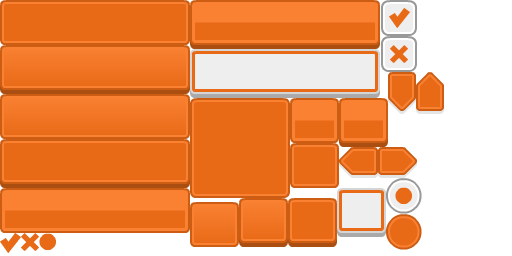
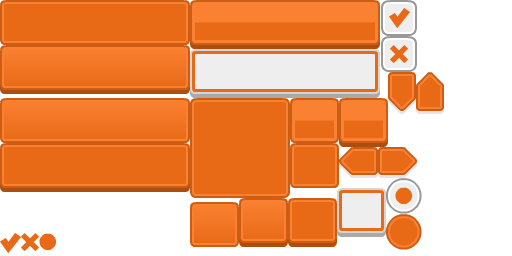
reescalated buttons

Changed region(s): [[0.0, 0.6875, 0.375, 0.9375], [0.0, 0.5312, 0.375, 0.5938], [0.0, 0.3438, 0.375, 0.4062]]

diff --git a/The Cliffborn Islands/Motor2D/j1SceneMenu.cpp b/The Cliffborn Islands/Motor2D/j1SceneMenu.cpp
@@ -63,13 +63,13 @@ bool j1SceneMenu::Start()
 		player_tex = App->tex->Load("textures/character/character.png");
 		harpy_tex = App->tex->Load("textures/enemies/harpy/harpy.png");
 
-		SDL_Rect idle = {288, 198, 49, 49};
-		SDL_Rect hovered = { 239, 198, 49, 49 };
-		SDL_Rect clicked = { 190, 198, 49, 49 };
+		SDL_Rect idle = {0, 143, 190, 49};
+		SDL_Rect hovered = { 0, 45, 190, 49 };
+		SDL_Rect clicked = { 0, 94, 190, 49 };
 
-		App->gui->CreateButton(BUTTON, 107, 90, idle, hovered, clicked, gui_tex, PLAY_GAME);
-		App->gui->CreateButton(BUTTON, 107, 140, idle, hovered, clicked, gui_tex, CLOSE_GAME);
-		App->gui->CreateButton(BUTTON, 200, 140, idle, hovered, clicked, gui_tex, CREDITS);
+		App->gui->CreateButton(BUTTON, 80, 110, idle, hovered, clicked, gui_tex, PLAY_GAME);
+		App->gui->CreateButton(BUTTON, 80, 135, idle, hovered, clicked, gui_tex, CLOSE_GAME);
+		App->gui->CreateButton(BUTTON, 80, 160, idle, hovered, clicked, gui_tex, CREDITS);
 	}
 
 	return true;
@@ -130,7 +130,7 @@ bool j1SceneMenu::Update(float dt)
 
 	// Blitting the buttons
 	for (p2List_item<j1Button*>* item = App->gui->buttons.start; item != nullptr; item = item->next) {
-		item->data->Draw();
+		item->data->Draw(0.5f);
 	}
 
 	return true;

diff --git a/The Cliffborn Islands/Motor2D/j1Render.h b/The Cliffborn Islands/Motor2D/j1Render.h
@@ -38,7 +38,7 @@ public:
 	iPoint ScreenToWorld(int x, int y) const;
 
 	// Draw & Blit
-	bool Blit(SDL_Texture* texture, int x, int y, const SDL_Rect* section = NULL, SDL_RendererFlip flip = SDL_FLIP_NONE, float speed = 1.0f, double angle = 0, int pivot_x = INT_MAX, int pivot_y = INT_MAX) const;
+	bool Blit(SDL_Texture* texture, int x, int y, const SDL_Rect* section = NULL, SDL_RendererFlip flip = SDL_FLIP_NONE, float speed = 1.0f, float blitScale = 1.0f,  double angle = 0, int pivot_x = INT_MAX, int pivot_y = INT_MAX) const;
 	bool DrawQuad(const SDL_Rect& rect, Uint8 r, Uint8 g, Uint8 b, Uint8 a = 255, bool filled = true, bool use_camera = true) const;
 	bool DrawLine(int x1, int y1, int x2, int y2, Uint8 r, Uint8 g, Uint8 b, Uint8 a = 255, bool use_camera = true) const;
 	bool DrawCircle(int x1, int y1, int redius, Uint8 r, Uint8 g, Uint8 b, Uint8 a = 255, bool use_camera = true) const;

diff --git a/The Cliffborn Islands/Motor2D/j1Render.cpp b/The Cliffborn Islands/Motor2D/j1Render.cpp
@@ -147,7 +147,7 @@ iPoint j1Render::ScreenToWorld(int x, int y) const
 }
 
 // Blit to screen
-bool j1Render::Blit(SDL_Texture* texture, int x, int y, const SDL_Rect* section, SDL_RendererFlip flip, float speed, double angle, int pivot_x, int pivot_y) const
+bool j1Render::Blit(SDL_Texture* texture, int x, int y, const SDL_Rect* section, SDL_RendererFlip flip, float speed, float blitScale, double angle, int pivot_x, int pivot_y) const
 {
 	bool ret = true;
 	uint scale = App->win->GetScale();
@@ -166,8 +166,8 @@ bool j1Render::Blit(SDL_Texture* texture, int x, int y, const SDL_Rect* section,
 		SDL_QueryTexture(texture, NULL, NULL, &rect.w, &rect.h);
 	}
 
-	rect.w *= scale;
-	rect.h *= scale;
+	rect.w *= scale * blitScale;
+	rect.h *= scale * blitScale;
 
 	SDL_Point* p = NULL;
 	SDL_Point pivot;

diff --git a/The Cliffborn Islands/Motor2D/j1UserInterfaceElement.cpp b/The Cliffborn Islands/Motor2D/j1UserInterfaceElement.cpp
@@ -5,10 +5,10 @@
 j1UserInterfaceElement::j1UserInterfaceElement(UIELEMENT_TYPES type, int x, int y, SDL_Rect section, SDL_Texture* text) : 
 	type(type), position(x, y), section(section), sprites(text) {}
 
-void j1UserInterfaceElement::Draw(bool flip, int x, int y)
+void j1UserInterfaceElement::Draw(float scale, bool flip, int x, int y)
 {
 	if (flip == false)
-		App->render->Blit(sprites, (int)position.x + x, (int)position.y + y, &section, SDL_FLIP_NONE);
+		App->render->Blit(sprites, (int)position.x + x, (int)position.y + y, &section, SDL_FLIP_NONE, 1.0f, scale);
 	else
-		App->render->Blit(sprites, (int)position.x + x, (int)position.y + y, &section, SDL_FLIP_HORIZONTAL);
+		App->render->Blit(sprites, (int)position.x + x, (int)position.y + y, &section, SDL_FLIP_HORIZONTAL, 1.0f, scale);
 }

diff --git a/The Cliffborn Islands/Motor2D/j1Gui.cpp b/The Cliffborn Islands/Motor2D/j1Gui.cpp
@@ -89,8 +89,8 @@ void j1Gui::UpdateButtonsState() {
 	int x, y; App->input->GetMousePosition(x, y);
 
 	for (p2List_item<j1Button*>* button = buttons.start; button != nullptr; button = button->next) {
-		if (x <= button->data->position.x + button->data->section.w && x >= button->data->position.x
-			&& y <= button->data->position.y + button->data->section.h && y >= button->data->position.y) {
+		if (x <= button->data->position.x + button->data->section.w * 0.5f && x >= button->data->position.x
+			&& y <= button->data->position.y + button->data->section.h * 0.5f && y >= button->data->position.y) {
 			button->data->state = STATE::HOVERED;
 
 			if (App->input->GetMouseButtonDown(SDL_BUTTON_LEFT) == KEY_REPEAT) {

diff --git a/The Cliffborn Islands/Motor2D/j1Button.cpp b/The Cliffborn Islands/Motor2D/j1Button.cpp
@@ -10,19 +10,9 @@ j1Button::j1Button(UIELEMENT_TYPES type, int x, int y, SDL_Rect idle, SDL_Rect h
 
 j1Button::~j1Button() {}
 
-bool j1Button::Update(float dt, bool do_logic)
-{
-	BROFILER_CATEGORY("Button", Profiler::Color::LightSeaGreen)	
-
-	// Drawing the button
-	Draw();
-
-	return true;
-}
-
 bool j1Button::CleanUp()
 {
-	LOG("Unloading harpy");
+	LOG("Unloading button textures");
 	App->tex->UnLoad(sprites);
 
 	return true;

diff --git a/The Cliffborn Islands/Motor2D/j1Button.h b/The Cliffborn Islands/Motor2D/j1Button.h
@@ -25,9 +25,6 @@ public:
 	// Destructor
 	virtual ~j1Button();
 
-	// Called every frame
-	bool Update(float dt, bool do_logic);
-
 	// Called before quitting
 	bool CleanUp();
 
@@ -35,7 +32,6 @@ public:
 	STATE state = IDLE;
 	ButtonFunction bfunction;
 
-	Animation* animation = nullptr;
 	SDL_Rect idle;
 	SDL_Rect hovered;
 	SDL_Rect clicked;

diff --git a/The Cliffborn Islands/Motor2D/j1UserInterfaceElement.h b/The Cliffborn Islands/Motor2D/j1UserInterfaceElement.h
@@ -16,7 +16,7 @@ public:
 	~j1UserInterfaceElement() {}
 
 	// Blits the element on the screen
-	virtual void Draw(bool flip = false, int x = 0, int y = 0);
+	virtual void Draw(float scale, bool flip = false, int x = 0, int y = 0);
 
 public:
 
